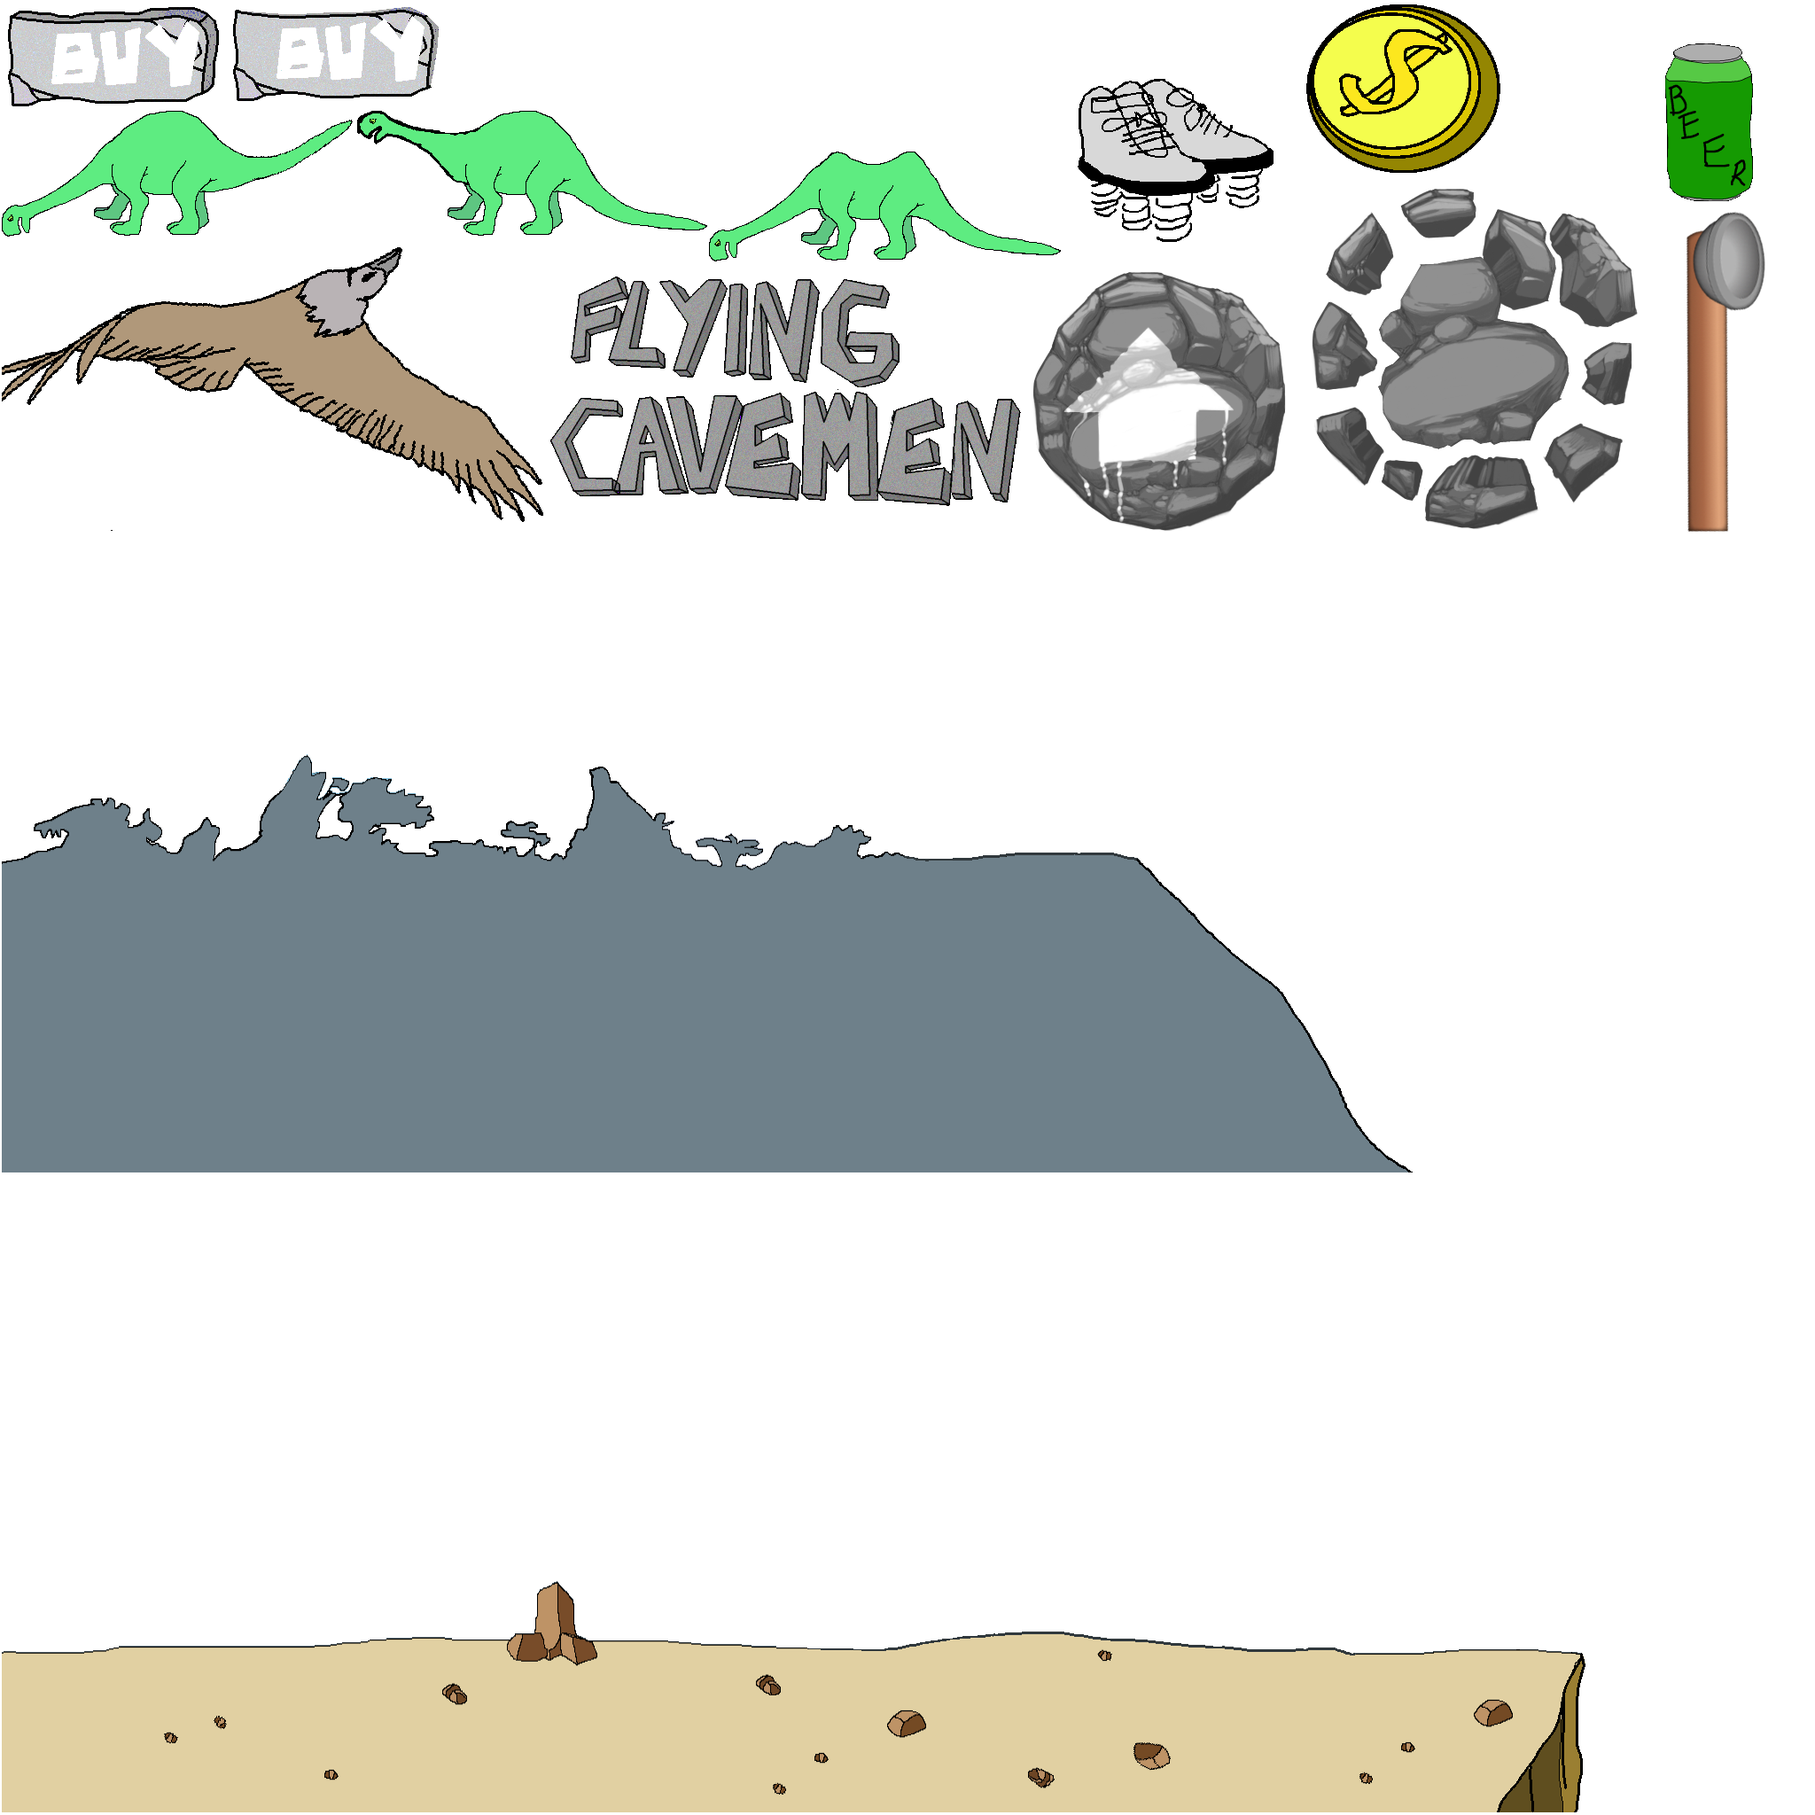
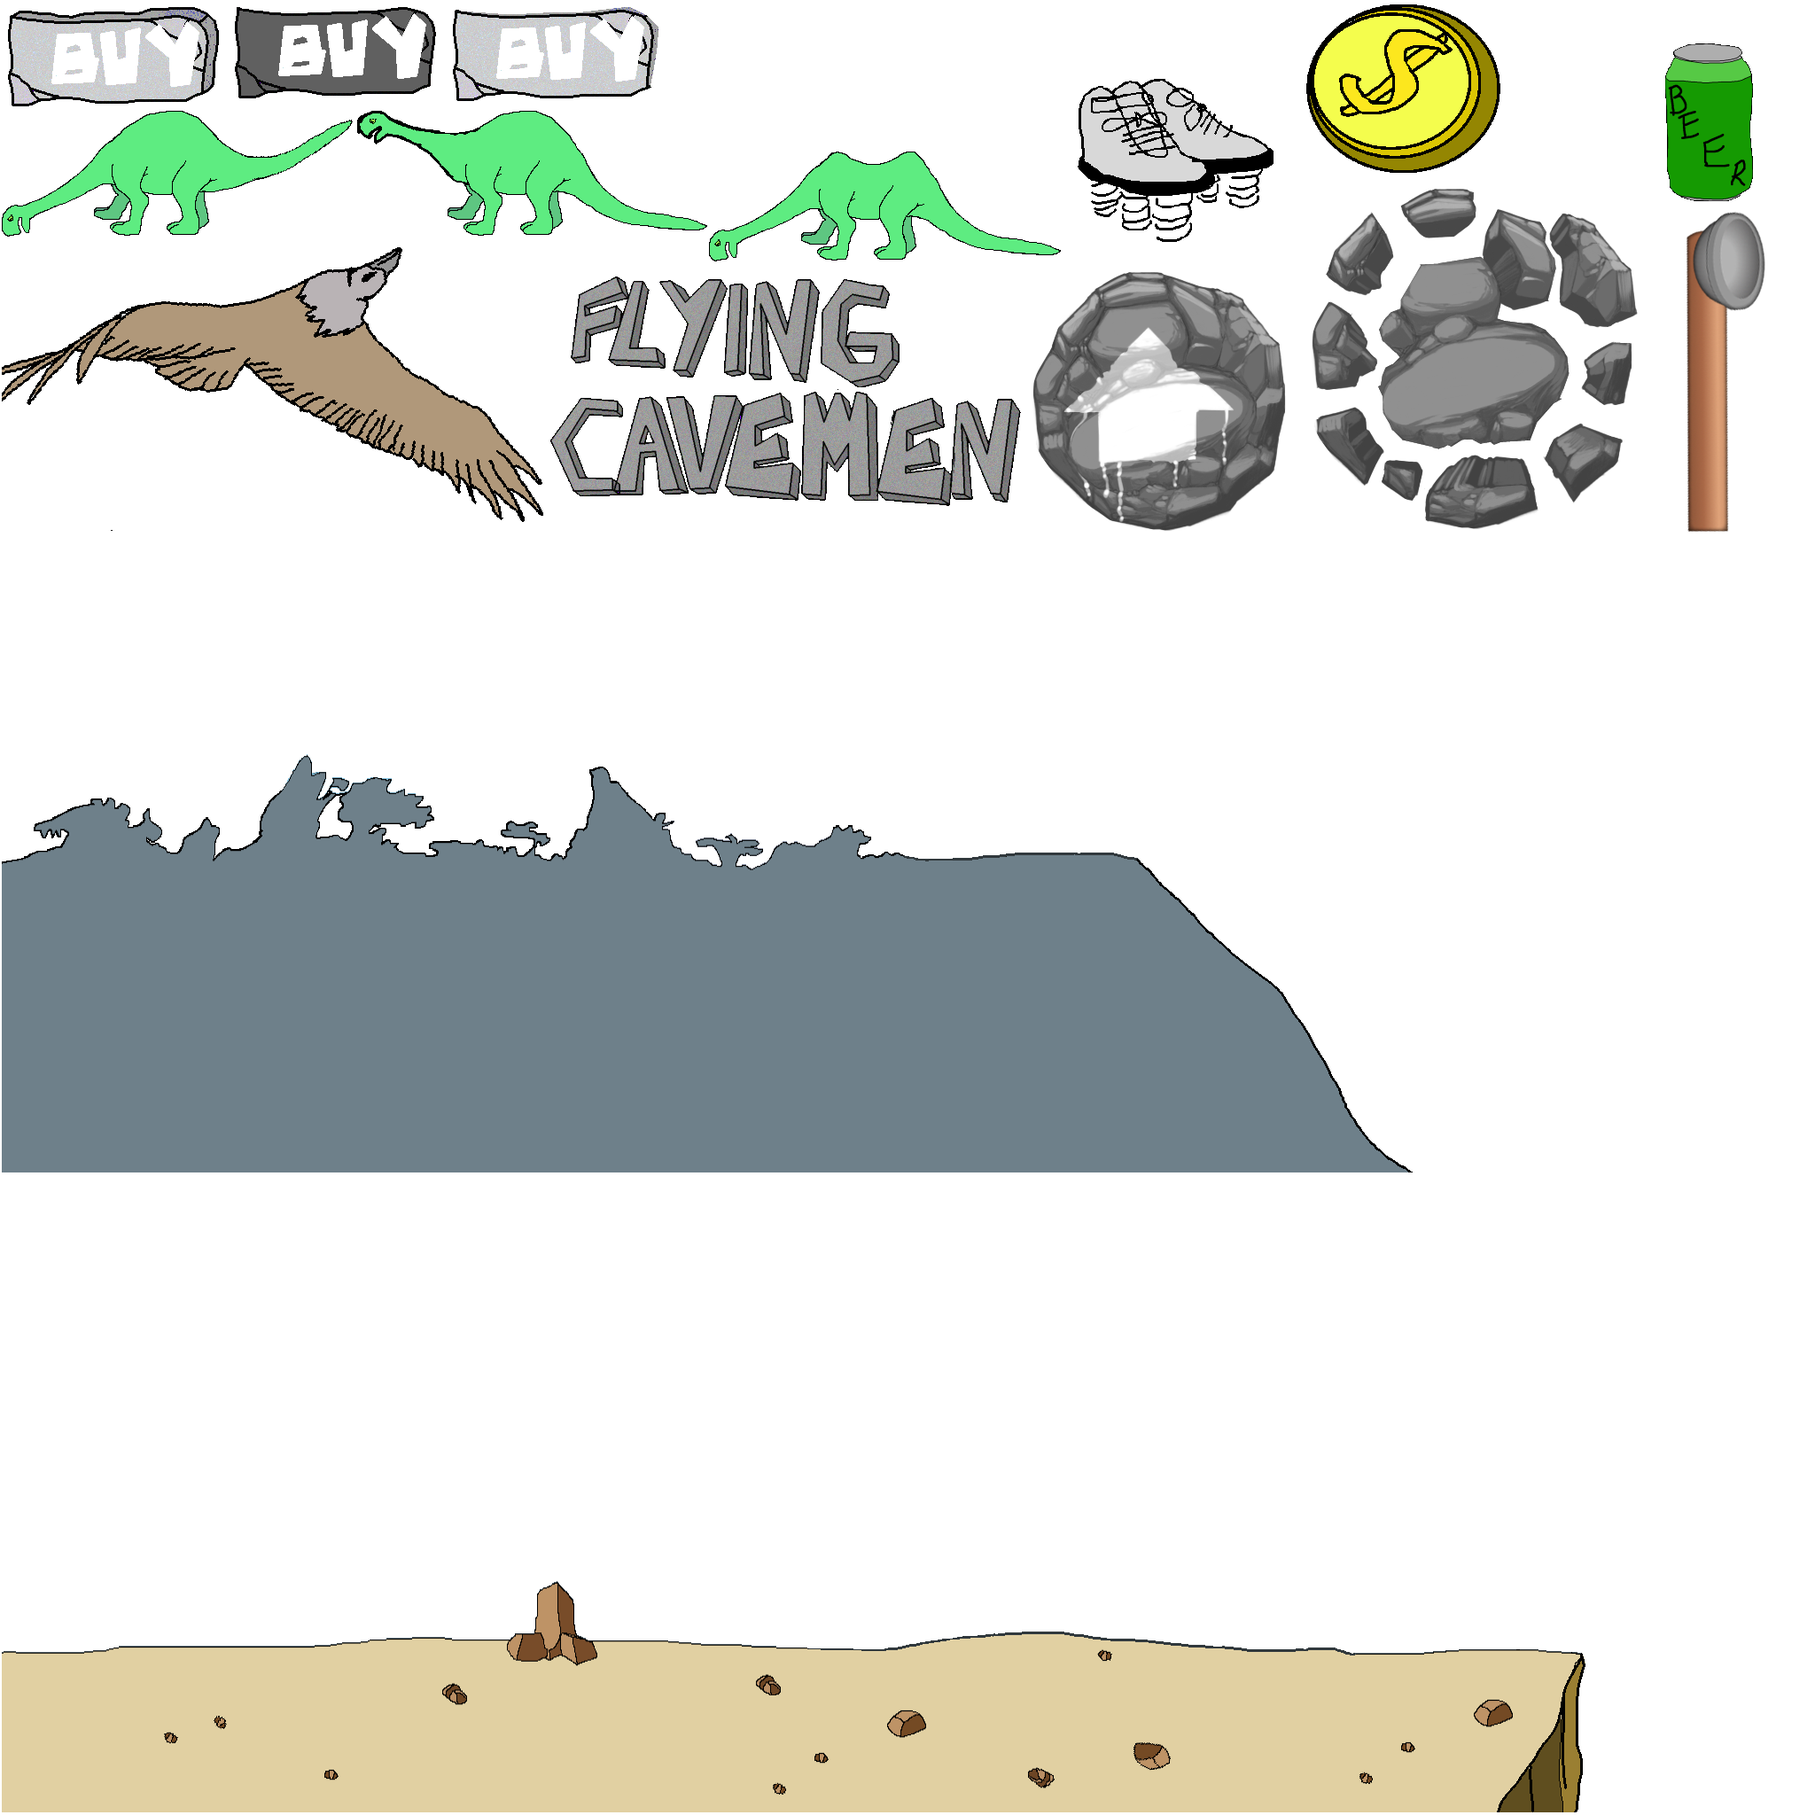
:kreygasm: shop WIP + wings description and cost

Changed region(s): [[0.125, 0.0, 0.375, 0.0625]]

diff --git a/core/src/com/deeep/flycaveman/widgets/ShopWidget.java b/core/src/com/deeep/flycaveman/widgets/ShopWidget.java
@@ -2,6 +2,7 @@ package com.deeep.flycaveman.widgets;
 
 import com.badlogic.gdx.math.Interpolation;
 import com.badlogic.gdx.scenes.scene2d.InputEvent;
+import com.badlogic.gdx.scenes.scene2d.Touchable;
 import com.badlogic.gdx.scenes.scene2d.actions.Actions;
 import com.badlogic.gdx.scenes.scene2d.ui.*;
 import com.badlogic.gdx.scenes.scene2d.utils.ClickListener;
@@ -9,6 +10,7 @@ import com.badlogic.gdx.scenes.scene2d.utils.TextureRegionDrawable;
 import com.badlogic.gdx.utils.Timer;
 import com.deeep.flycaveman.Assets;
 import com.deeep.flycaveman.Core;
+import com.deeep.flycaveman.entities.CaveMan;
 import com.deeep.flycaveman.screens.GameScreen;
 
 /**
@@ -17,6 +19,8 @@ import com.deeep.flycaveman.screens.GameScreen;
 public class ShopWidget {
     private Window shopDialog, wingsDialog, steroidsDialog, staminaplusDialog, springsDialog;
     private GameScreen screen;
+    private CoinsWidget coinsWidget;
+    private ImageButton buyWingsButton, buySteroidsButton, buyStaminaButton, buySpringsButton;
     private boolean wingsOpen, steroidsOpen, staminaOpen, springsOpen;
 
     public ShopWidget(final Core game) {
@@ -26,6 +30,7 @@ public class ShopWidget {
         shopDialog.setSize(680, Core.VIRTUAL_HEIGHT - 25);
         shopDialog.setPosition(0, Core.VIRTUAL_HEIGHT + shopDialog.getHeight());
         shopDialog.setKeepWithinStage(false);
+        shopDialog.removeCaptureListener(shopDialog.getCaptureListeners().first());
 
         ImageButton.ImageButtonStyle retryStyle = new ImageButton.ImageButtonStyle();
         retryStyle.imageUp = new TextureRegionDrawable(Assets.restartButton);
@@ -127,7 +132,15 @@ public class ShopWidget {
 
         game.screen.stage.addActor(shopDialog);
 
+        buildCoinWidget();
         buildBuyDialogs();
+    }
+
+    private void buildCoinWidget() {
+        coinsWidget = new CoinsWidget();
+        coinsWidget.setPosition(240, -coinsWidget.background.getHeight());
+
+        screen.stage.addActor(coinsWidget);
     }
 
     private void buildBuyDialogs() {
@@ -171,16 +184,26 @@ public class ShopWidget {
         buyStyle.imageDown = new TextureRegionDrawable(Assets.buyButtonDown);
         buyStyle.imageDown.setMinWidth(160);
         buyStyle.imageDown.setMinHeight(96);
-        ImageButton buyButton = new ImageButton(buyStyle);
-        buyButton.addListener(new ClickListener() {
+        buyStyle.imageDisabled = new TextureRegionDrawable(Assets.buyButtonDisabled);
+        buyStyle.imageDisabled.setMinWidth(160);
+        buyStyle.imageDisabled.setMinHeight(96);
+        buyWingsButton = new ImageButton(buyStyle);
+        buyWingsButton.addListener(new ClickListener() {
+            @Override
+            public boolean touchDown(InputEvent event, float x, float y, int pointer, int button) {
+                if (buyWingsButton.isDisabled()) return true;
+
+                return false;
+            }
+
             @Override
             public void clicked(InputEvent event, float x, float y) {
                 screen.world.caveman.addWings();
             }
         });
-        buyButton.setSize(160, 96);
-        buyButton.setPosition(0, 0);
-        wingsDialog.addActor(buyButton);
+        buyWingsButton.setSize(160, 96);
+        buyWingsButton.setPosition(0, 0);
+        wingsDialog.addActor(buyWingsButton);
 
         CoinSprite coinSprite = new CoinSprite();
         coinSprite.setSize(64, 64);
@@ -207,16 +230,19 @@ public class ShopWidget {
         buyStyle.imageDown = new TextureRegionDrawable(Assets.buyButtonDown);
         buyStyle.imageDown.setMinWidth(160);
         buyStyle.imageDown.setMinHeight(96);
-        ImageButton buyButton = new ImageButton(buyStyle);
-        buyButton.addListener(new ClickListener() {
+        buyStyle.imageDisabled = new TextureRegionDrawable(Assets.buyButtonDisabled);
+        buyStyle.imageDisabled.setMinWidth(160);
+        buyStyle.imageDisabled.setMinHeight(96);
+        buySteroidsButton = new ImageButton(buyStyle);
+        buySteroidsButton.addListener(new ClickListener() {
             @Override
             public void clicked(InputEvent event, float x, float y) {
                 screen.world.caveman.addSteroids();
             }
         });
-        buyButton.setSize(160, 96);
-        buyButton.setPosition(wingsDialog.getWidth() / 2 - buyButton.getWidth() / 2, 25);
-        steroidsDialog.addActor(buyButton);
+        buySteroidsButton.setSize(160, 96);
+        buySteroidsButton.setPosition(wingsDialog.getWidth() / 2 - buySteroidsButton.getWidth() / 2, 25);
+        steroidsDialog.addActor(buySteroidsButton);
     }
 
     private void buildStaminaDialog() {
@@ -234,16 +260,19 @@ public class ShopWidget {
         buyStyle.imageDown = new TextureRegionDrawable(Assets.buyButtonDown);
         buyStyle.imageDown.setMinWidth(160);
         buyStyle.imageDown.setMinHeight(96);
-        ImageButton buyButton = new ImageButton(buyStyle);
-        buyButton.addListener(new ClickListener() {
+        buyStyle.imageDisabled = new TextureRegionDrawable(Assets.buyButtonDisabled);
+        buyStyle.imageDisabled.setMinWidth(160);
+        buyStyle.imageDisabled.setMinHeight(96);
+        buyStaminaButton = new ImageButton(buyStyle);
+        buyStaminaButton.addListener(new ClickListener() {
             @Override
             public void clicked(InputEvent event, float x, float y) {
                 screen.world.caveman.upgradeStamina();
             }
         });
-        buyButton.setSize(160, 96);
-        buyButton.setPosition(wingsDialog.getWidth() / 2 - buyButton.getWidth() / 2, 25);
-        staminaplusDialog.addActor(buyButton);
+        buyStaminaButton.setSize(160, 96);
+        buyStaminaButton.setPosition(wingsDialog.getWidth() / 2 - buyStaminaButton.getWidth() / 2, 25);
+        staminaplusDialog.addActor(buyStaminaButton);
     }
 
     private void buildSpringsDialog() {
@@ -261,16 +290,19 @@ public class ShopWidget {
         buyStyle.imageDown = new TextureRegionDrawable(Assets.buyButtonDown);
         buyStyle.imageDown.setMinWidth(160);
         buyStyle.imageDown.setMinHeight(96);
-        ImageButton buyButton = new ImageButton(buyStyle);
-        buyButton.addListener(new ClickListener() {
+        buyStyle.imageDisabled = new TextureRegionDrawable(Assets.buyButtonDisabled);
+        buyStyle.imageDisabled.setMinWidth(160);
+        buyStyle.imageDisabled.setMinHeight(96);
+        buySpringsButton = new ImageButton(buyStyle);
+        buySpringsButton.addListener(new ClickListener() {
             @Override
             public void clicked(InputEvent event, float x, float y) {
                 screen.world.caveman.addSprings();
             }
         });
-        buyButton.setSize(160, 96);
-        buyButton.setPosition(wingsDialog.getWidth() / 2 - buyButton.getWidth() / 2, 25);
-        springsDialog.addActor(buyButton);
+        buySpringsButton.setSize(160, 96);
+        buySpringsButton.setPosition(wingsDialog.getWidth() / 2 - buySpringsButton.getWidth() / 2, 25);
+        springsDialog.addActor(buySpringsButton);
     }
 
     private void show(String dialog) {
@@ -335,13 +367,51 @@ public class ShopWidget {
     public void setVisible(boolean flag) {
         if (flag) {
             shopDialog.addAction(Actions.moveTo(0, Core.VIRTUAL_HEIGHT / 2 - shopDialog.getHeight() / 2, 0.4f, Interpolation.linear));
+
+            coinsWidget.moveUp();
         } else {
             shopDialog.addAction(Actions.moveTo(0, Core.VIRTUAL_HEIGHT + shopDialog.getHeight(), 0.4f, Interpolation.linear));
 
-            wingsDialog.setVisible(flag);
-            steroidsDialog.setVisible(flag);
-            staminaplusDialog.setVisible(flag);
-            springsDialog.setVisible(flag);
+            wingsDialog.addAction(Actions.moveTo(Core.VIRTUAL_WIDTH + wingsDialog.getWidth(), 12, 0.4f, Interpolation.linear));
+            steroidsDialog.addAction(Actions.moveTo(Core.VIRTUAL_WIDTH + steroidsDialog.getWidth(), 12, 0.4f, Interpolation.linear));
+            staminaplusDialog.addAction(Actions.moveTo(Core.VIRTUAL_WIDTH + staminaplusDialog.getWidth(), 12, 0.4f, Interpolation.linear));
+            springsDialog.addAction(Actions.moveTo(Core.VIRTUAL_WIDTH + springsDialog.getWidth(), 12, 0.4f, Interpolation.linear));
+
+            coinsWidget.moveDown();
+        }
+    }
+
+    public void update() {
+        if (CaveMan.coins >= 150) {
+            buyWingsButton.setDisabled(false);
+            buyWingsButton.setTouchable(Touchable.enabled);
+        } else {
+            buyWingsButton.setDisabled(true);
+            buyWingsButton.setTouchable(Touchable.disabled);
+        }
+
+        if (CaveMan.coins >= 100) {
+            buySpringsButton.setDisabled(false);
+            buySpringsButton.setTouchable(Touchable.enabled);
+        } else {
+            buySpringsButton.setDisabled(true);
+            buySpringsButton.setTouchable(Touchable.disabled);
+        }
+
+        if (CaveMan.coins >= 30) {
+            buyStaminaButton.setDisabled(false);
+            buyStaminaButton.setTouchable(Touchable.enabled);
+        } else {
+            buyStaminaButton.setDisabled(true);
+            buyStaminaButton.setTouchable(Touchable.disabled);
+        }
+
+        if (CaveMan.coins >= 50) {
+            buySteroidsButton.setDisabled(false);
+            buySteroidsButton.setTouchable(Touchable.enabled);
+        } else {
+            buySteroidsButton.setDisabled(true);
+            buySteroidsButton.setTouchable(Touchable.disabled);
         }
     }
 }

diff --git a/core/src/com/deeep/flycaveman/widgets/CoinsWidget.java b/core/src/com/deeep/flycaveman/widgets/CoinsWidget.java
@@ -2,7 +2,7 @@ package com.deeep.flycaveman.widgets;
 
 import com.badlogic.gdx.graphics.Color;
 import com.badlogic.gdx.graphics.g2d.Batch;
-import com.badlogic.gdx.scenes.scene2d.Action;
+import com.badlogic.gdx.math.Interpolation;
 import com.badlogic.gdx.scenes.scene2d.Actor;
 import com.badlogic.gdx.scenes.scene2d.actions.Actions;
 import com.badlogic.gdx.scenes.scene2d.ui.Image;
@@ -14,21 +14,27 @@ import com.deeep.flycaveman.entities.CaveMan;
  * Created by scanevaro on 08/03/2015.
  */
 public class CoinsWidget extends Actor {
-    private Image background, coin;
+    public Image background;
+    private Image coin;
     private Label amount;
-    private CaveMan caveMan;
 
     public CoinsWidget() {
         background = new Image(Assets.button);
         background.setSize(128, 70);
-        background.setPosition(112, 0);
 
         coin = new Image(Assets.coin1);
         coin.setSize(50, 50);
-        coin.setPosition(128, 10);
 
         amount = new Label("", Assets.skin);
-        amount.setPosition(196, 36);
+    }
+
+    @Override
+    public void setPosition(float x, float y) {
+        super.setPosition(x, y);
+
+        background.setPosition(x, y);
+        coin.setPosition(x + 16, y + 10);
+        amount.setPosition(x + 84, y + 36);
     }
 
     @Override
@@ -56,20 +62,27 @@ public class CoinsWidget extends Actor {
         amount.setColor(color);
     }
 
-    @Override
-    public void addAction(Action action) {
+    public void fadeIn() {
         background.addAction(Actions.delay(0.5f, Actions.fadeIn(1.0f)));
         coin.addAction(Actions.delay(0.5f, Actions.fadeIn(1.0f)));
         amount.addAction(Actions.delay(0.5f, Actions.fadeIn(1.0f)));
-    }
-
-    public void setCaveMan(CaveMan caveMan) {
-        this.caveMan = caveMan;
     }
 
     public void fadeOut() {
         background.addAction(Actions.delay(0.25f, Actions.fadeOut(1.0f)));
         coin.addAction(Actions.delay(0.25f, Actions.fadeOut(1.0f)));
         amount.addAction(Actions.delay(0.25f, Actions.fadeOut(1.0f)));
+    }
+
+    public void moveUp() {
+        background.addAction(Actions.moveTo(240, 0, 0.4f, Interpolation.linear));
+        coin.addAction(Actions.moveTo(240 + 16, 10, 0.4f, Interpolation.linear));
+        amount.addAction(Actions.moveTo(240 + 84, 36, 0.4f, Interpolation.linear));
+    }
+
+    public void moveDown() {
+        background.addAction(Actions.moveTo(240, -background.getHeight(), 0.4f, Interpolation.linear));
+        coin.addAction(Actions.moveTo(240 + 16, -10 - background.getHeight(), 0.4f, Interpolation.linear));
+        amount.addAction(Actions.moveTo(240 + 84, -36 - background.getHeight(), 0.4f, Interpolation.linear));
     }
 }

diff --git a/core/src/com/deeep/flycaveman/screens/GameScreen.java b/core/src/com/deeep/flycaveman/screens/GameScreen.java
@@ -79,7 +79,6 @@ public class GameScreen extends AbstractScreen {
         prepareGameOverDialog();
 
         expressions.setCaveman(world.caveman);
-        coinsWidget.setCaveMan(world.caveman);
 
         stage.addActor(darkness);
     }
@@ -153,6 +152,7 @@ public class GameScreen extends AbstractScreen {
         pauseButton.setPosition(0, Core.VIRTUAL_HEIGHT - pauseButton.getHeight());
         flapButton.setSize(96, 96);
         flapButton.setPosition(0, 0);
+        coinsWidget.setPosition(112, 0);
 
         stage.addActor(distanceLabel);
         stage.addActor(heightLabel);
@@ -188,7 +188,7 @@ public class GameScreen extends AbstractScreen {
             staminaBar.addAction(Actions.delay(0.5f, Actions.fadeIn(1.0f)));
             flapButton.addAction(Actions.delay(0.5f, Actions.fadeIn(1.0f)));
             expressions.addAction(Actions.delay(0.5f, Actions.fadeIn(1.0f)));
-            coinsWidget.addAction(Actions.delay(0.5f, Actions.fadeIn(1.0f)));
+            coinsWidget.fadeIn();
         }
 
         /**Updates*/
@@ -197,6 +197,7 @@ public class GameScreen extends AbstractScreen {
             updateUI();
             updateGameCam();
             world.update(delta);
+            shopWidget.update();
             stage.act();
 
             if (world.isGameOver()) {

diff --git a/core/src/com/deeep/flycaveman/Assets.java b/core/src/com/deeep/flycaveman/Assets.java
@@ -42,7 +42,7 @@ public class Assets {
             steroids, wings, springs, coin1, coin2, coin3, coin4, coin5, coin6, flapUp, dropUp, pauseUp, quetzaHit,
             mosquitoTexture, mosquitoHit, sabertooth1, sabertooth2, faceBackground, faceHappy, facePain, faceTired,
             facePassion, faceKO, title, touchNH, buttonBroken, button, dialog, buyButton, buyButtonDown, starBlack,
-            starBright;
+            starBright, buyButtonDisabled;
     public static Animation cavemanWings, cavemanFlap;
 
     public static TextureRegion dessert_layer_1, dessert_layer_2, dessert_layer_3;  //todo put this in an enum or so
@@ -181,6 +181,7 @@ public class Assets {
         dialog = items.findRegion("dialog");
         buyButton = items.findRegion("buyButton");
         buyButtonDown = items.findRegion("buyButtonDown");
+        buyButtonDisabled = items.findRegion("buyButtonDisabled");
         starBlack = items.findRegion("starDark");
         starBright = items.findRegion("starShine");
 
